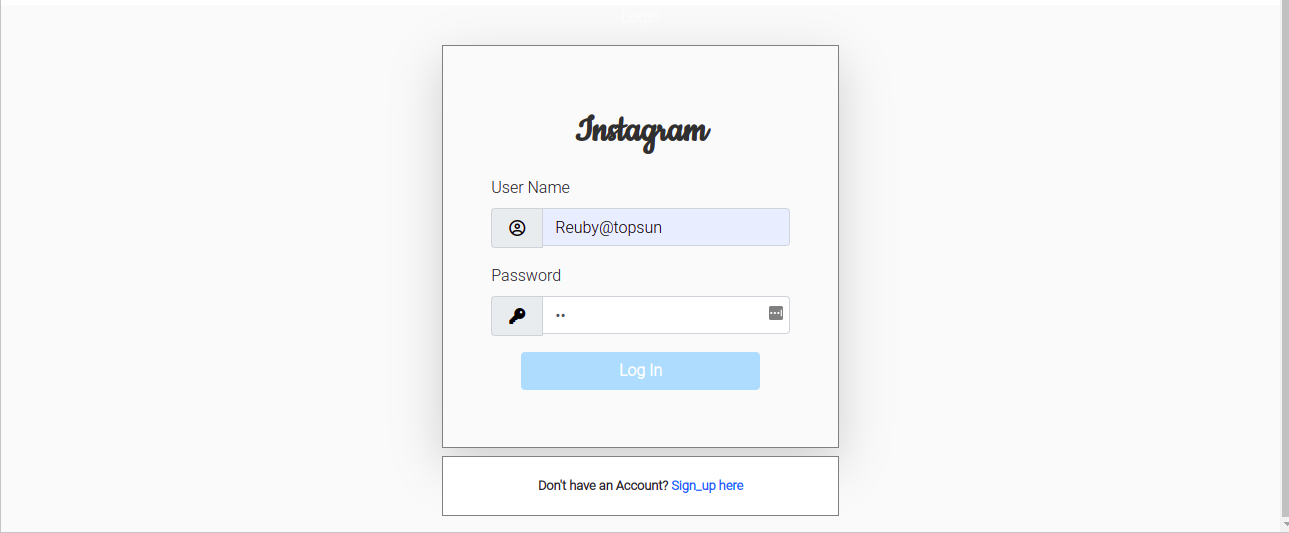
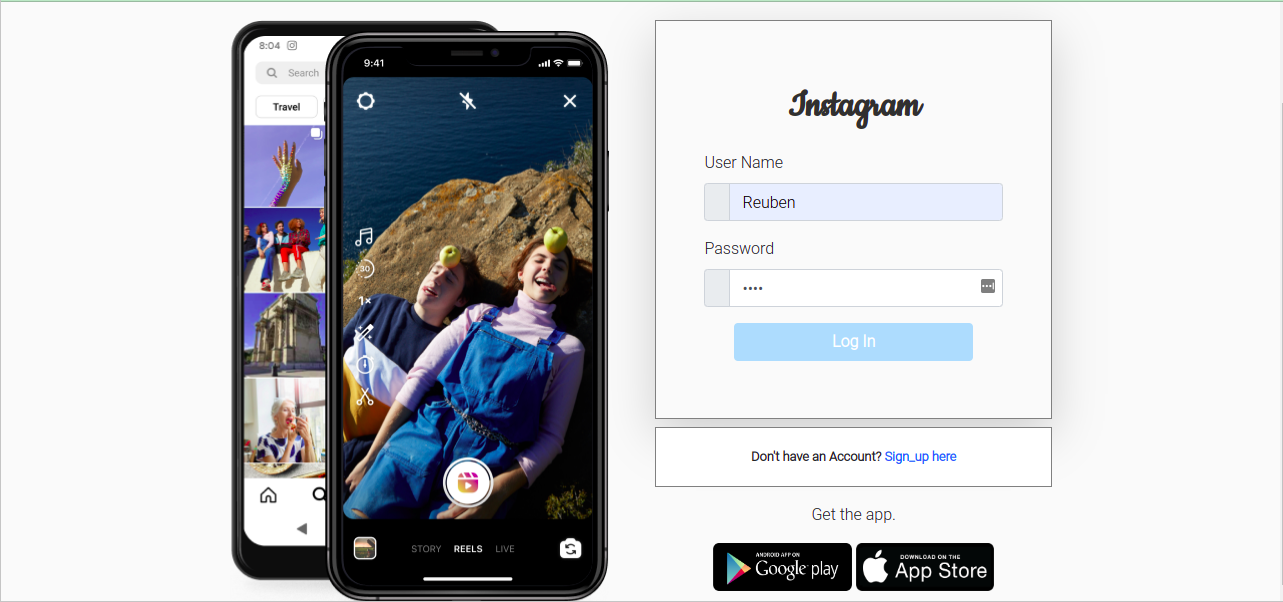
st:login - restructures login

diff --git a/app/templates/navbar.html b/app/templates/navbar.html
@@ -40,10 +40,9 @@
       </li>
       <div class="dropdown">
         <i class="fa-regular fa-circle-user dropdown-toggle mr-1 mt-2" type="button" id="dropdownMenuButton" data-toggle="dropdown" aria-haspopup="true" aria-expanded="false">
-          
         </i>
         <div class="dropdown-menu" aria-labelledby="dropdownMenuButton">
-          <a class="dropdown-item" href="#">Profile</a>
+          <a class="dropdown-item" href="{% url 'profile'%}">Profile</a>
           <a class="dropdown-item" href="#">{{request.user}}</a>
           <a class="dropdown-item ml-1 mt-1" href="{% url 'logout' %}"><button type="button" class="btn btn-outline-dark btn-sm">Logout</button></a></a>
         </div>

diff --git a/app/templates/login.html b/app/templates/login.html
@@ -45,7 +45,13 @@
         <small class="font-weight-bold text-center">Don't have an Account? <a href="{% url 'register'%}">Sign_up
             here</a></small>
       </p>
+      <div class="apps">
+         <p class="text-center">Get the app.</p>
+        <img src="/static/images/play.png" id ="play" alt="play store">
+        <img src="/static/images/app.png" id ="app"  alt="App store">
+      </div>
     </div>
+    
     <div class="col-md-2"></div>
   </div>
 </div>

diff --git a/app/templates/index.html b/app/templates/index.html
@@ -139,6 +139,11 @@
       <!-- </div> -->
     </div>
     <div class="col-md-4 position-fixed offset-6">
+
+      <div class="me">
+        
+
+      </div>
       <h5>suggestions for you</h5>
       {% for user in users %}
       <div class="row my-3">

diff --git a/app/static/css/styles.css b/app/static/css/styles.css
@@ -136,6 +136,11 @@ body{
 #two{
     margin-top: -2%;
 }
-#user-pass, #user-icon{
-    height: 78vh;
+#play, #app{
+    width: 35%;
+    height: 8vh;
+
+}
+.apps{
+    text-align: center;
 }
